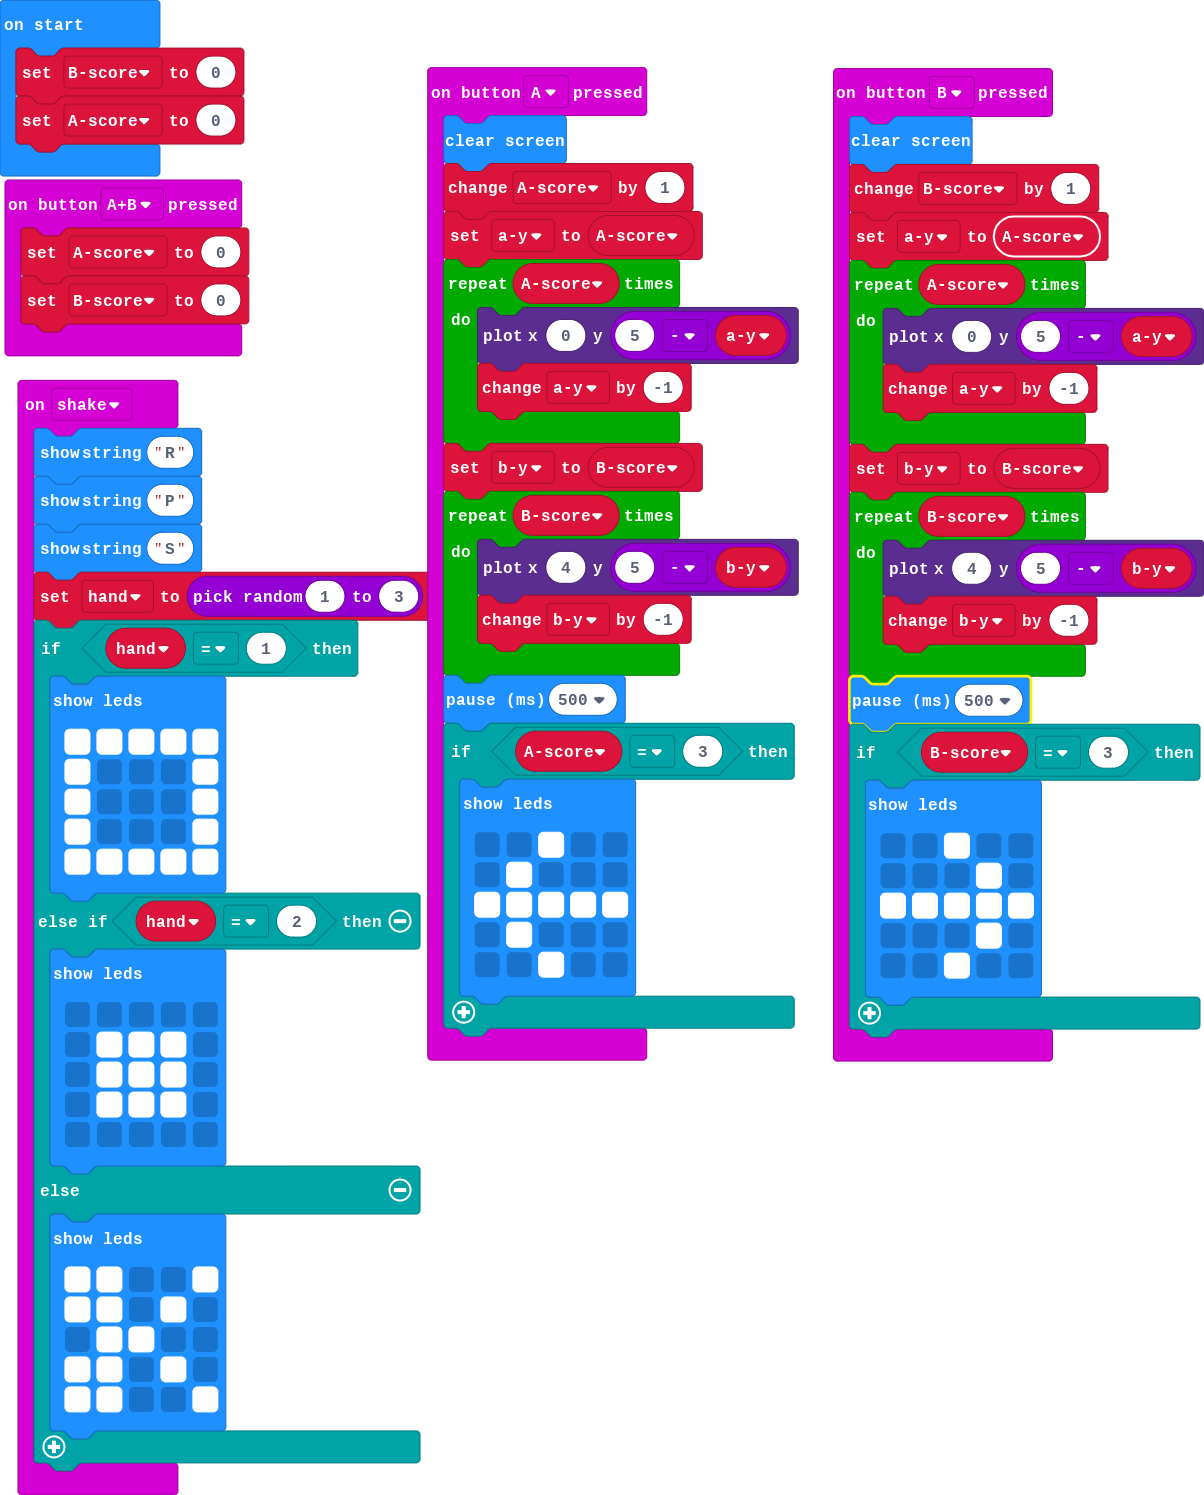
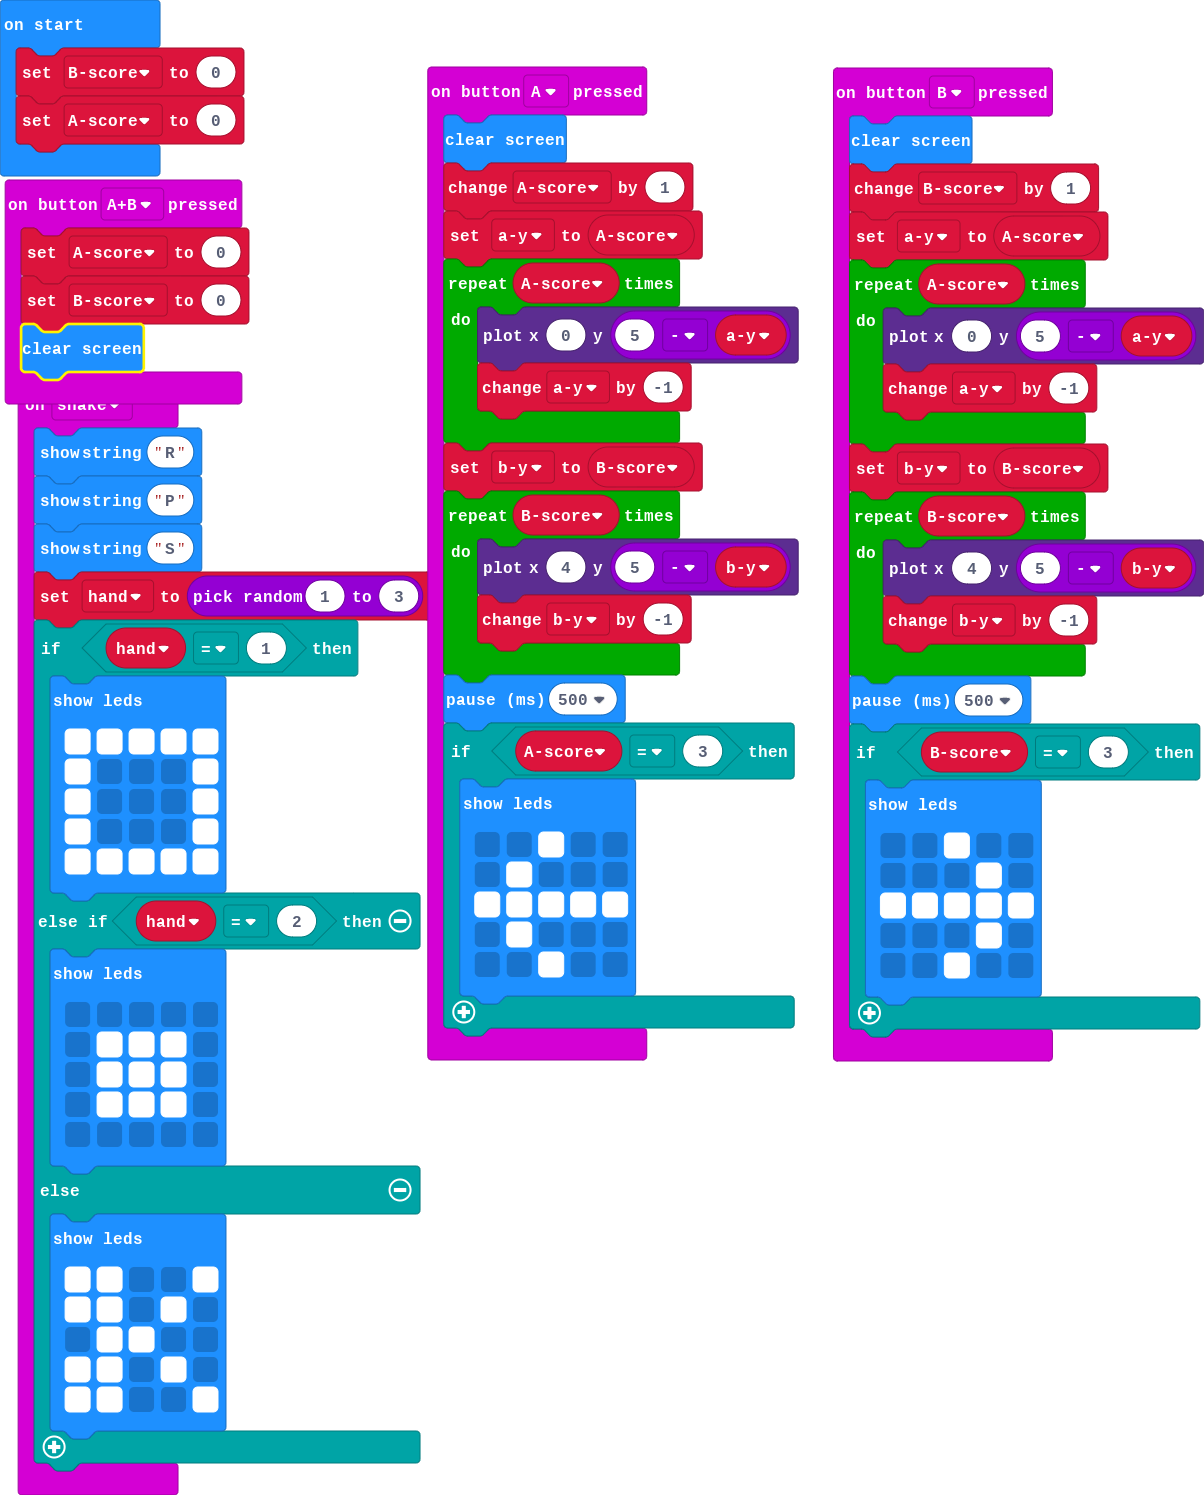
Update main.blocks, main.ts

diff --git a/main.ts b/main.ts
@@ -32,6 +32,7 @@ input.onGesture(Gesture.Shake, function () {
 input.onButtonPressed(Button.AB, function () {
     Ascore = 0
     Bscore = 0
+    basic.clearScreen()
 })
 input.onButtonPressed(Button.B, function () {
     basic.clearScreen()
